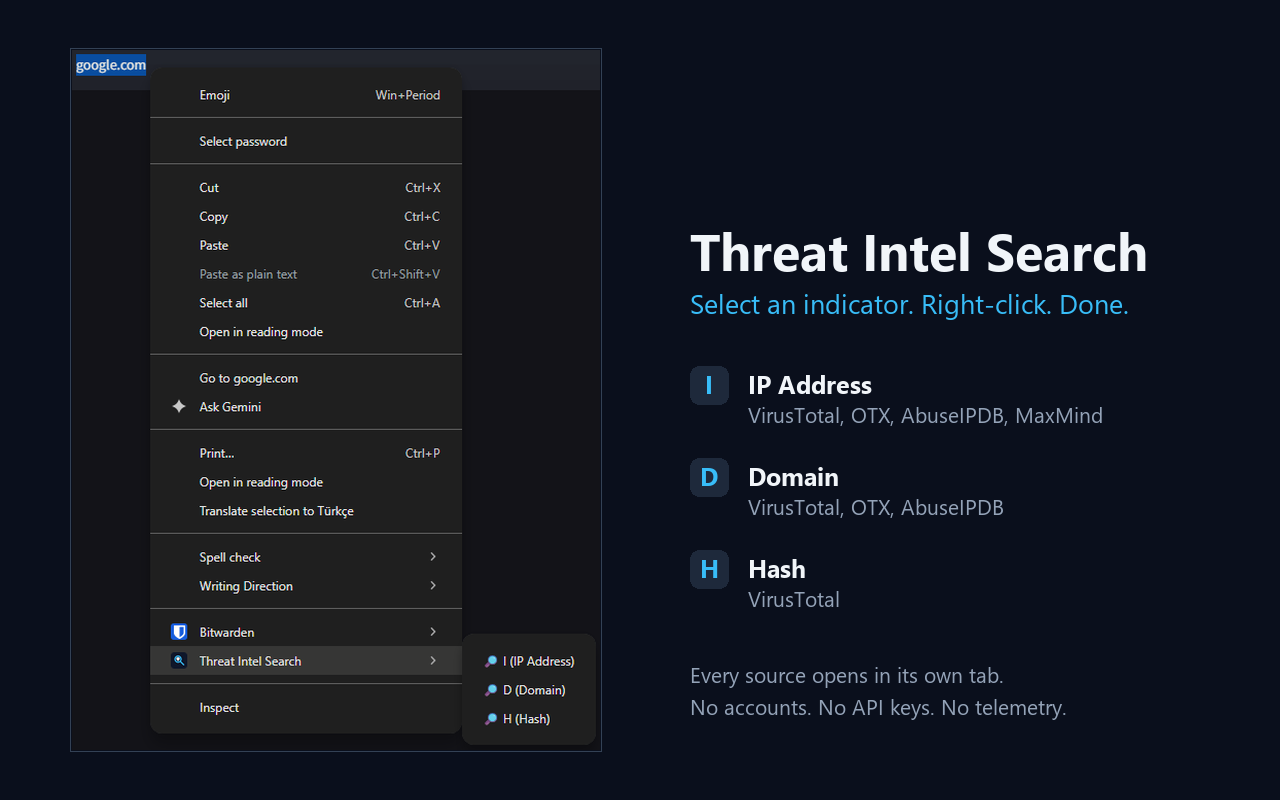
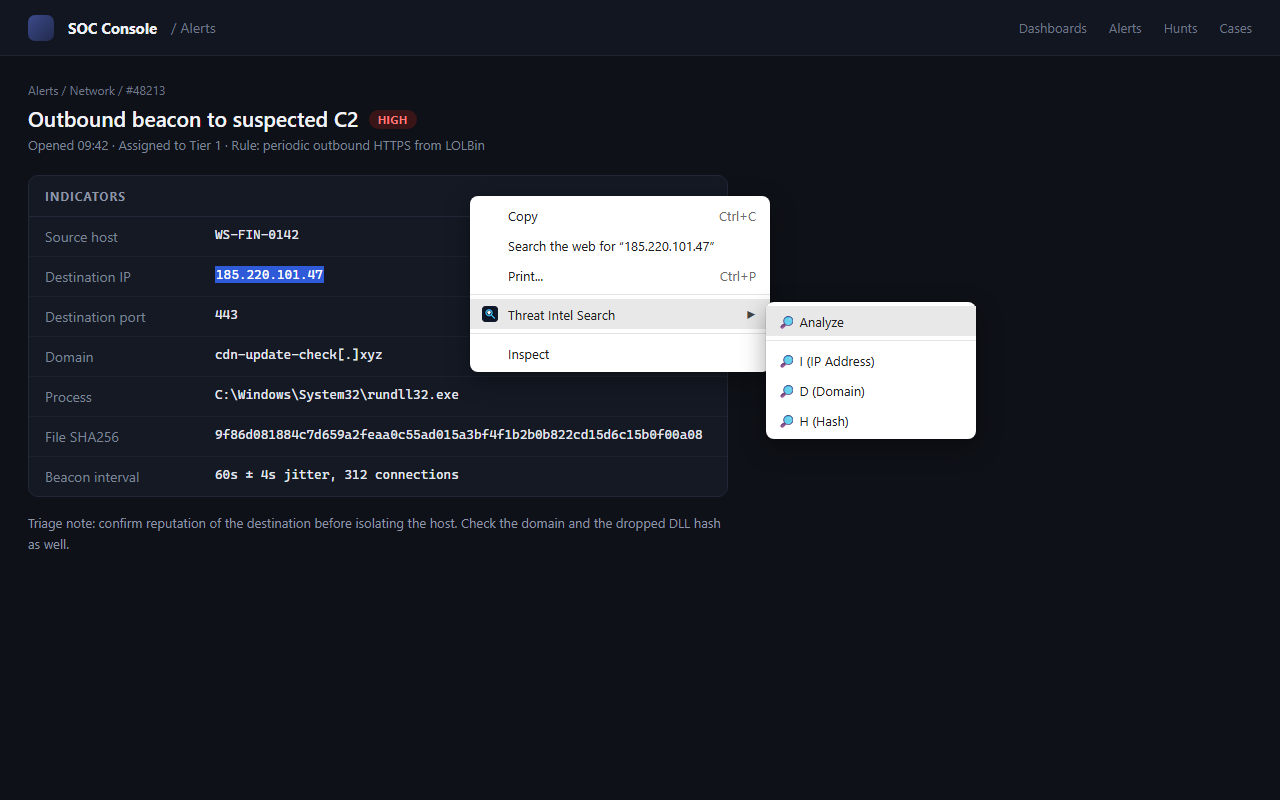
Store screenshots for the Analyze menu and panel; fix count-up starting below zero

diff --git a/chrome/panel.js b/chrome/panel.js
@@ -137,7 +137,7 @@ function countUp(to) {
   const from = shownPct;
   const start = performance.now();
   const step = (now) => {
-    const t = Math.min(1, (now - start) / 400);
+    const t = Math.min(1, Math.max(0, now - start) / 400);
     shownPct = Math.round(from + (to - from) * (1 - (1 - t) ** 3));
     $("pct").textContent = `${shownPct}%`;
     if (t < 1) countFrame = requestAnimationFrame(step);

diff --git a/panel.js b/panel.js
@@ -137,7 +137,7 @@ function countUp(to) {
   const from = shownPct;
   const start = performance.now();
   const step = (now) => {
-    const t = Math.min(1, (now - start) / 400);
+    const t = Math.min(1, Math.max(0, now - start) / 400);
     shownPct = Math.round(from + (to - from) * (1 - (1 - t) ** 3));
     $("pct").textContent = `${shownPct}%`;
     if (t < 1) countFrame = requestAnimationFrame(step);

diff --git a/STORE-LISTING.md b/STORE-LISTING.md
@@ -96,7 +96,7 @@ https://github.com/canmenzo/ThreatIntelSearch/blob/main/PRIVACY.md
 ## Assets
 
 - Icon: `chrome/icons/icon128.png` (128x128)
-- Screenshot: 1280x800 or 640x400 PNG, at least one required. The current
-  `chrome/store/screenshot-1280x800.png` shows the v1 right-click menu; replace
-  it with a real capture of the v2 panel open next to a selected indicator.
-  Google rejects mockups and stock imagery.
+- Screenshots (1280x800, also usable on AMO), upload in this order:
+  1. `chrome/store/screenshot-1280x800.png`: the right-click menu with Analyze and I / D / H.
+  2. `chrome/store/screenshot-2-1280x800.png`: the Analyze panel with a score.
+  Both render the real extension UI (sample vendor data) over a sample alert page.
